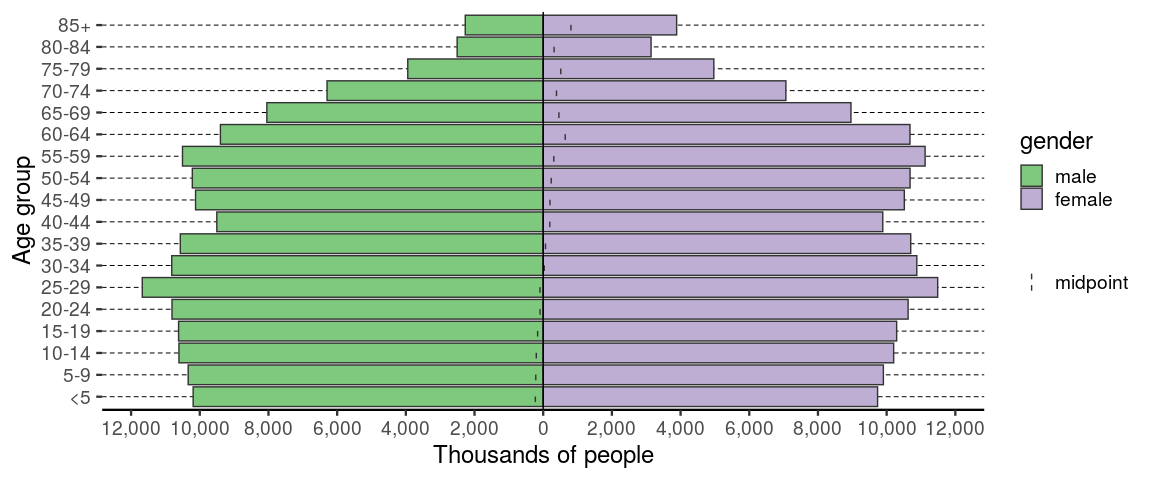
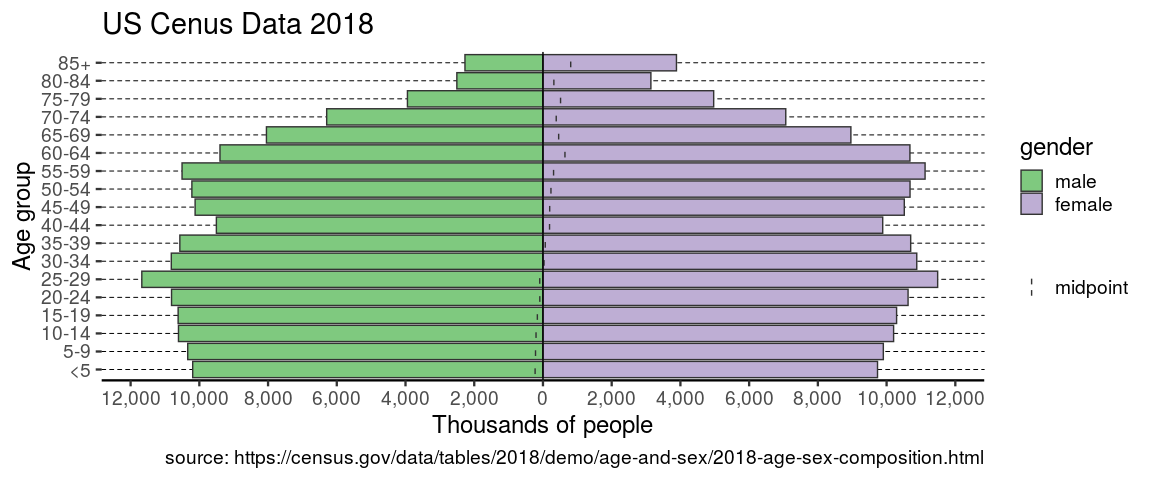
flesh out readme a bit

diff --git a/README.md b/README.md
@@ -32,15 +32,79 @@ install.packages("apyramid")
 
 ## Example
 
-This can be used to visualize pre-aggregated data. This example is the
-US census data from 2018:
+The {apyramid} package was primarily designed for quick visualisation of
+un-aggregated linelist data in field epidemiological situations.
 
 ``` r
-library(apyramid)
-library(ggplot2)
+library("outbreaks")
+library("apyramid")
+library("ggplot2")
 old_theme <- theme_set(theme_classic(base_size = 18))
 
-us_labels <- labs(x = "Age group", y = "Thousands of people")
+flu <- outbreaks::fluH7N9_china_2013
+
+# data preparation (create age groups from ages)
+autocut <- function(x) {
+  cut(x, breaks = pretty(x), right = TRUE, include.lowest = TRUE)
+}
+flu$age_group <- autocut(as.integer(flu$age))
+levels(flu$gender) <- c("Female", "Male")
+head(flu)
+#>   case_id date_of_onset date_of_hospitalisation date_of_outcome outcome
+#> 1       1    2013-02-19                    <NA>      2013-03-04   Death
+#> 2       2    2013-02-27              2013-03-03      2013-03-10   Death
+#> 3       3    2013-03-09              2013-03-19      2013-04-09   Death
+#> 4       4    2013-03-19              2013-03-27            <NA>    <NA>
+#> 5       5    2013-03-19              2013-03-30      2013-05-15 Recover
+#> 6       6    2013-03-21              2013-03-28      2013-04-26   Death
+#>   gender age province age_group
+#> 1   Male  87 Shanghai   (50,60]
+#> 2   Male  27 Shanghai    [0,10]
+#> 3 Female  35    Anhui   (10,20]
+#> 4 Female  45  Jiangsu   (10,20]
+#> 5 Female  48  Jiangsu   (10,20]
+#> 6 Female  32  Jiangsu    [0,10]
+
+flup <- age_pyramid(flu, age_group, split_by = gender)
+#> Warning: 2 missing rows were removed (0 values from `age_group` and 2
+#> values from `gender`).
+flup
+```
+
+<img src="man/figures/README-flu-1.png" width="100%" />
+
+Since the result is a ggplot2 object, it can be customized like one:
+
+``` r
+flup + 
+  scale_fill_grey(guide = guide_legend(order = 1)) + 
+  theme(text = element_text(size = 18, family = "serif")) + 
+  theme(panel.background = element_rect(fill = "#ccffff")) + 
+  theme(plot.background = element_rect(fill = "#ffffcc")) + 
+  theme(legend.background = element_blank()) +
+  labs(
+    x       = "Age group (years)",
+    y       = "Number of cases",
+    fill    = "Gender",
+    title   = "136 cases of influenza A H7N9 in China",
+    caption = "Source: https://doi.org/10.5061/dryad.2g43n"
+  )
+#> Scale for 'fill' is already present. Adding another scale for 'fill',
+#> which will replace the existing scale.
+```
+
+<img src="man/figures/README-flu2-1.png" width="100%" />
+
+This can also be used to visualize pre-aggregated data. This example is
+the US census data from 2018:
+
+``` r
+
+us_labels <- labs(
+  x = "Age group", 
+  y = "Thousands of people", 
+  title = "US Cenus Data 2018",
+  caption = "source: https://census.gov/data/tables/2018/demo/age-and-sex/2018-age-sex-composition.html")
 data(us_2018)
 us_2018
 #> # A tibble: 36 x 4
